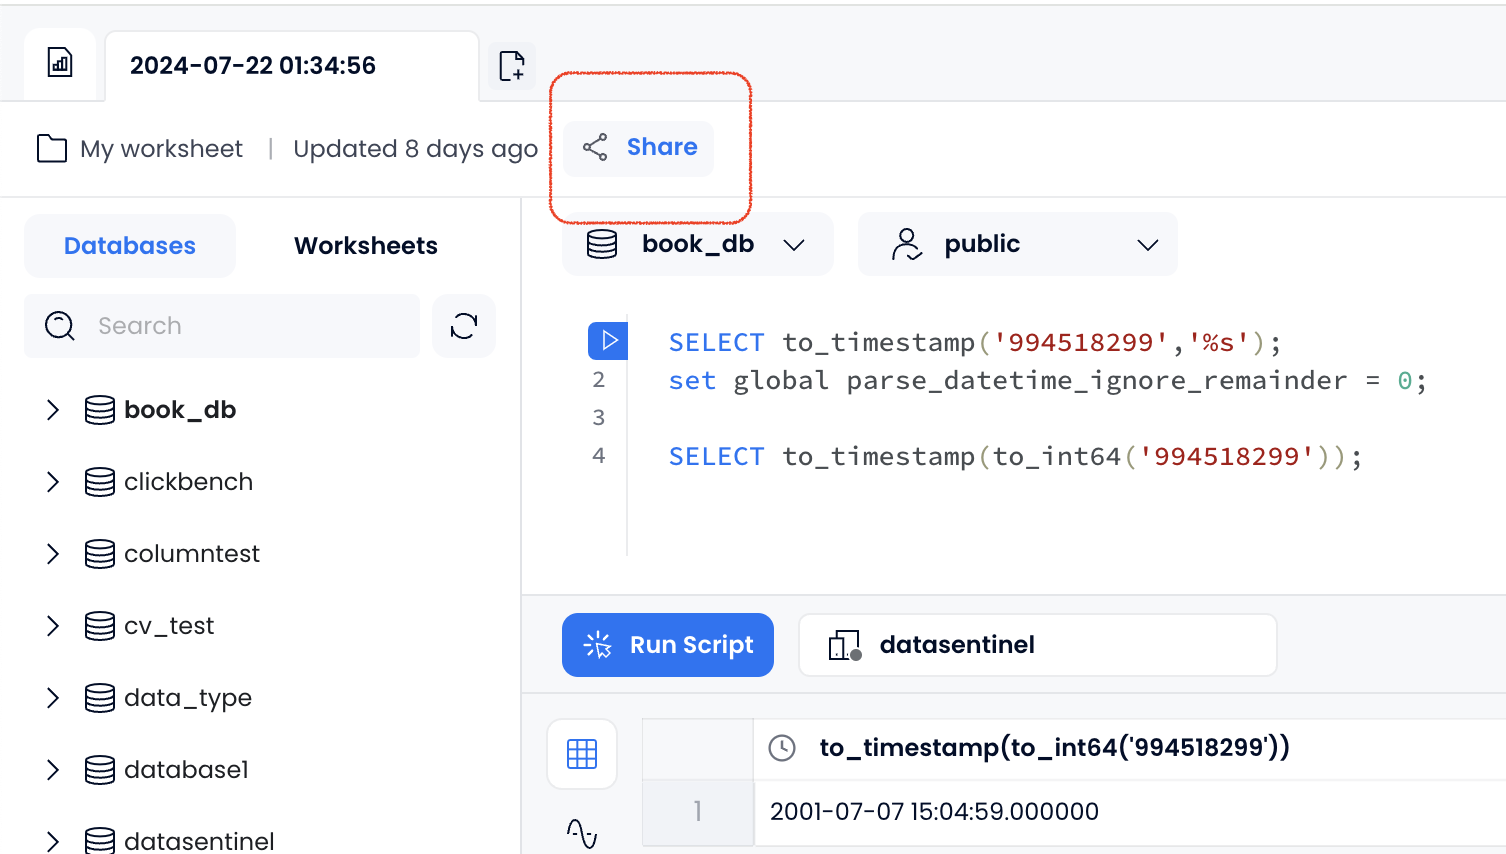
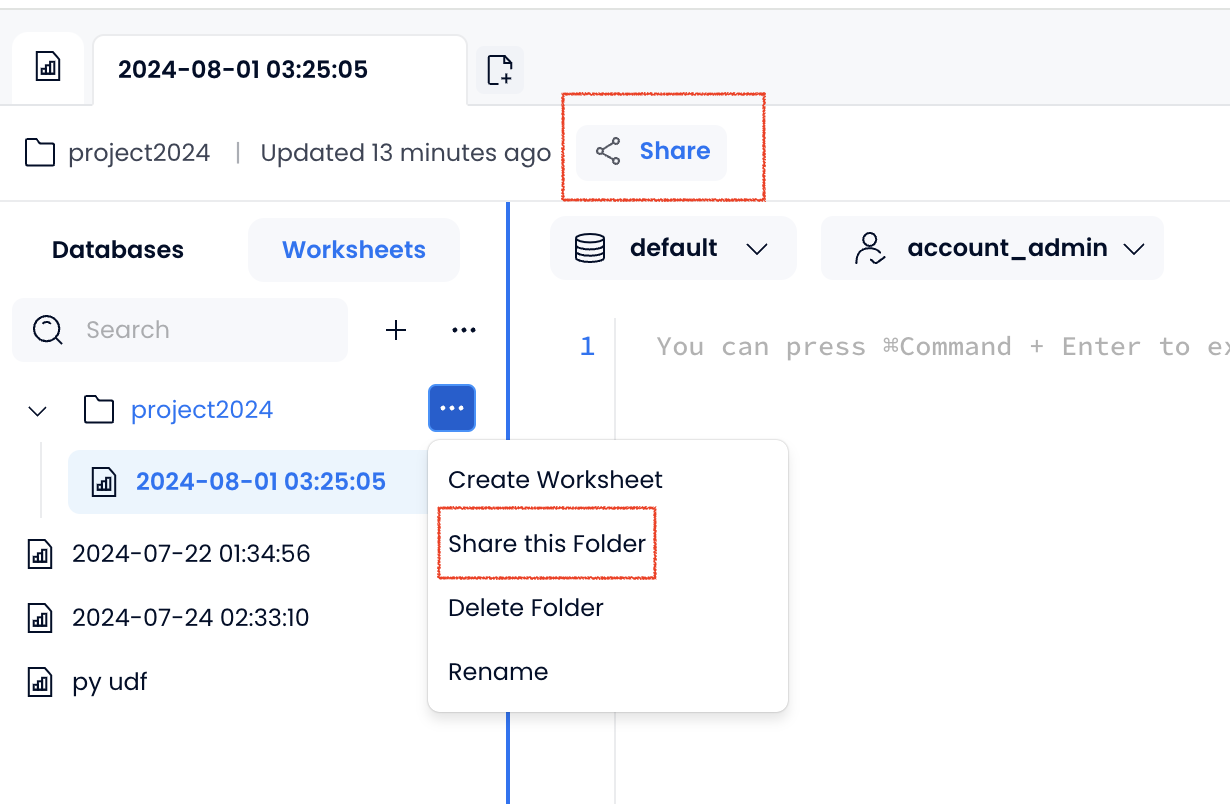
updated

diff --git a/docs/en/guides/20-cloud/10-using-databend-cloud/01-worksheet.md b/docs/en/guides/20-cloud/10-using-databend-cloud/01-worksheet.md
@@ -37,7 +37,7 @@ The query result shows in the output area. You can click **Export** to save the 
 
 ## Sharing Worksheets
 
-You can share a worksheet with everyone in your organization or specific individuals. To do so, click the **Share** button in the worksheet you want to share. 
+You can share your worksheets with everyone in your organization or specific individuals. To do so, click **Share** in the worksheet you want to share, or click **Share this Folder** to share a worksheet folder.
 
 ![Alt text](@site/static/img/documents/worksheet/share.png)
 
